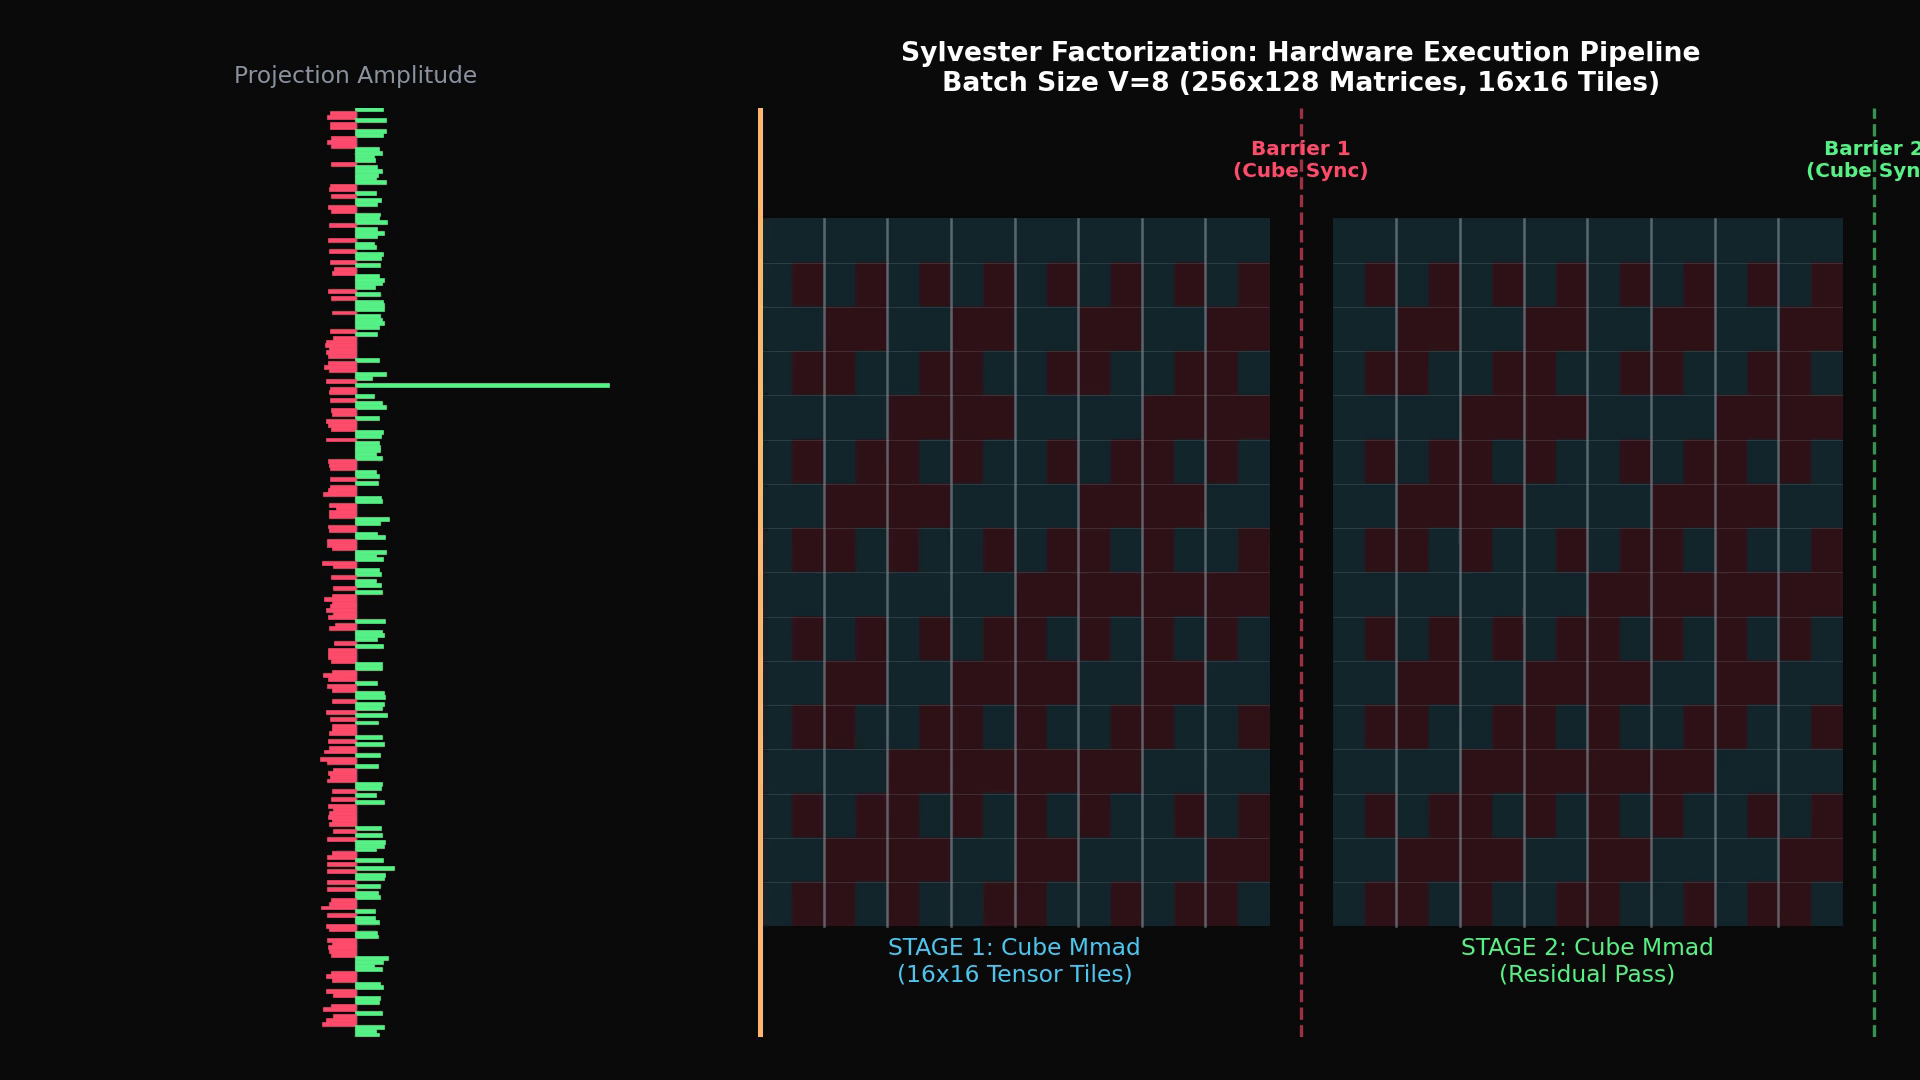
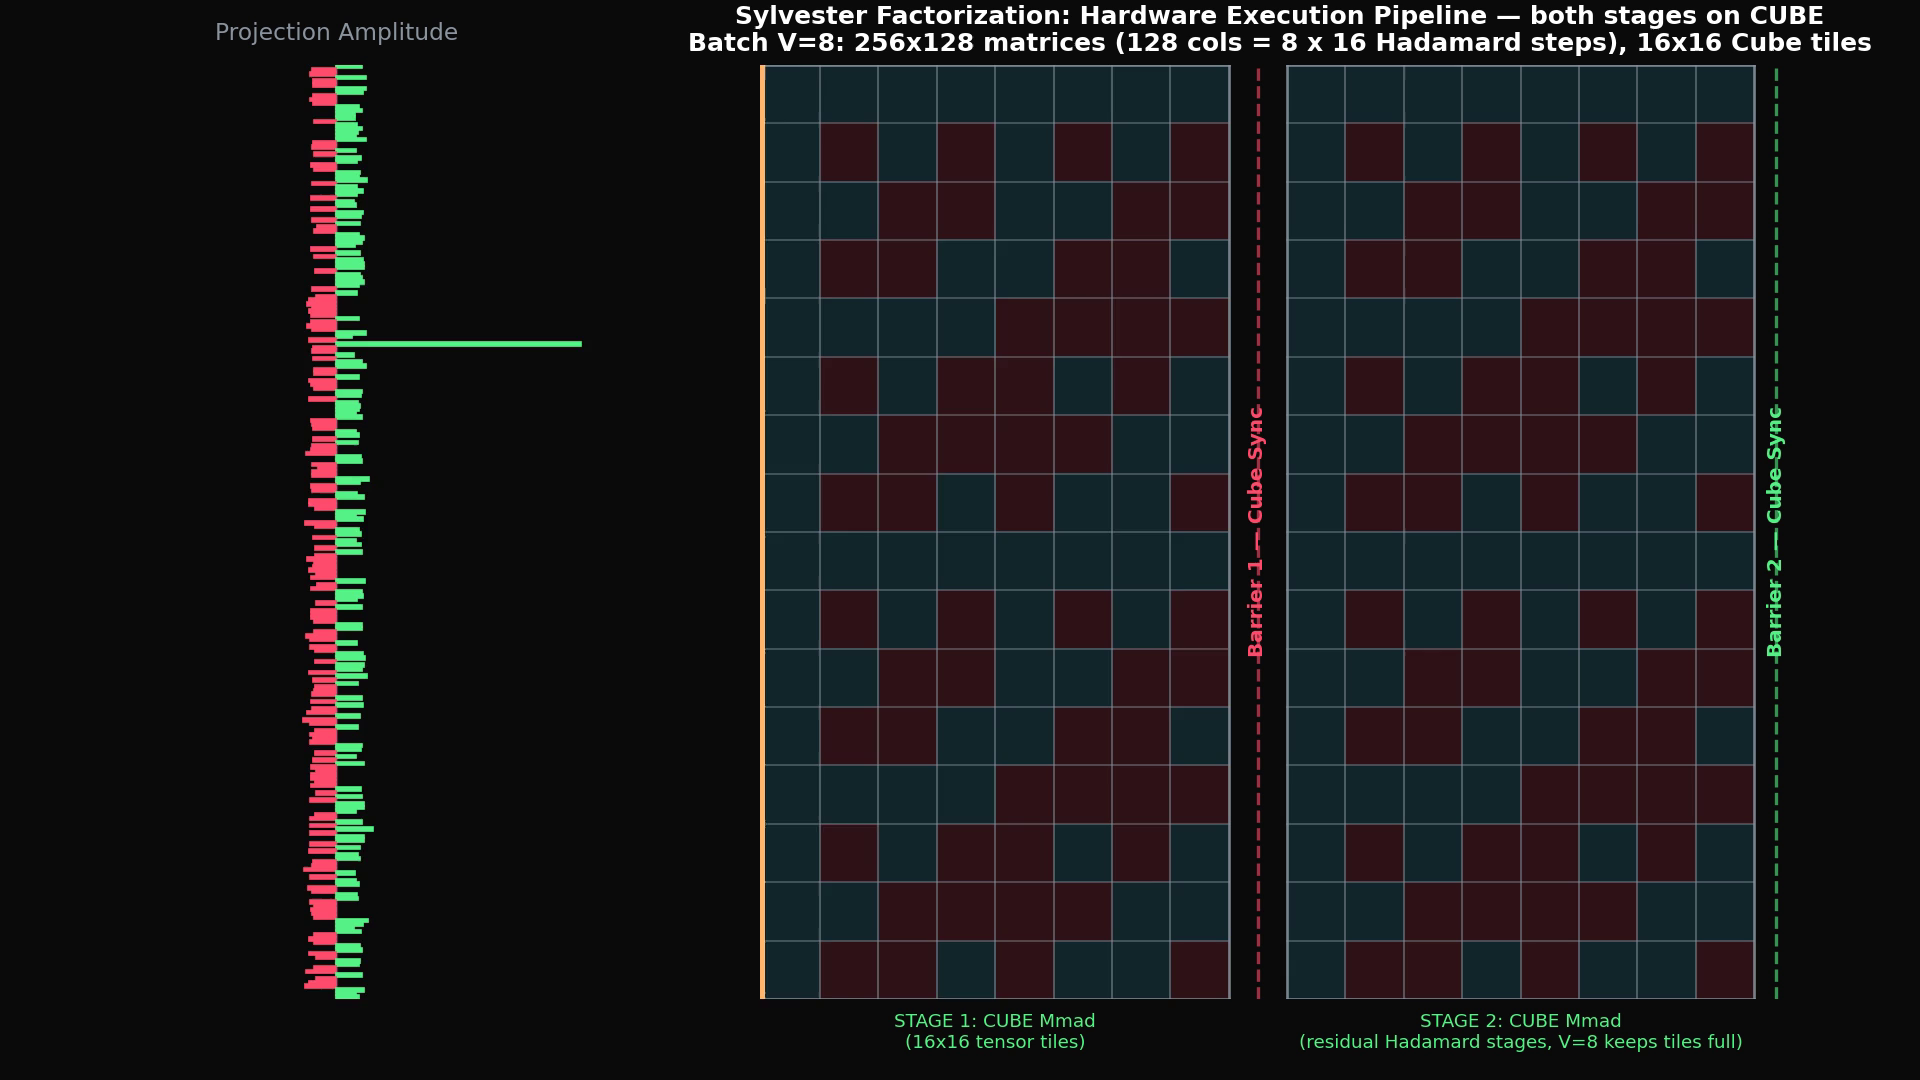
[update]

diff --git a/matrix_pipeline.py b/matrix_pipeline.py
@@ -10,20 +10,29 @@ import deck_style as ds
 # ==========================================
 D = 256
 BATCH = 8
-# Матрица: 256 строк, 128 столбцов (16 из матрицы Адамара * 8 батч)
+# Матрица: 256 строк, 128 столбцов (8 элементов батча * 16 шагов Адамара).
 ROWS = 256
-COLS = 128 
+COLS = 128
 TILE_H = 16
 TILE_W = 16
 TILES_R = ROWS // TILE_H # 16 тайлов по вертикали
 TILES_C = COLS // TILE_W # 8 тайлов по горизонтали
 TOTAL_TILES = TILES_R * TILES_C # 128 тайлов на каждую стадию
 
+# Геометрия дорожек по оси X (в клетках матрицы).
+M1_X0, M1_X1 = 0, COLS                  # первая матрица
+GAP = 16                                # зазор между матрицами
+M2_X0, M2_X1 = M1_X1 + GAP, M1_X1 + GAP + COLS
+BARRIER_1_X = M1_X1 + GAP / 2           # ровно посередине зазора
+BARRIER_2_X = M2_X1 + 6                 # сразу за второй матрицей
+
 FPS = 25
-FRAMES_STAGE1 = 60
-FRAMES_PAUSE1 = 20
-FRAMES_STAGE2 = 60
-FRAMES_PAUSE2 = 20
+# Обе стадии -- это вспышки Cube Mmad, а не медленный векторный проход:
+# на просчёт даём вдвое меньше кадров, чем раньше (60 -> 28).
+FRAMES_STAGE1 = 28
+FRAMES_PAUSE1 = 12
+FRAMES_STAGE2 = 28
+FRAMES_PAUSE2 = 16
 TOTAL_FRAMES = FRAMES_STAGE1 + FRAMES_PAUSE1 + FRAMES_STAGE2 + FRAMES_PAUSE2
 
 np.random.seed(42)
@@ -35,29 +44,47 @@ mid_v = initial_v * 0.4 + np.random.normal(0, 1.5, D)
 final_v = np.random.normal(0, 1.0, D)
 V_MAX = np.max(np.abs(initial_v)) * 1.1
 
-# Цвета в формате RGBA
-C_CYAN = np.array([76, 201, 240, 255]) / 255.0
-C_PINK = np.array([255, 77, 109, 255]) / 255.0
-C_BG = np.array([10, 10, 10, 255]) / 255.0
+# Цвета
+C_CYAN = np.array([76, 201, 240]) / 255.0       # текстура знаков +1
+C_PINK = np.array([255, 77, 109]) / 255.0       # текстура знаков -1
+C_CUBE = np.array([87, 242, 135]) / 255.0       # вспышка Cube Mmad (обе стадии)
+CUBE_GREEN = '#57f287'
 
-# Генерация базового паттерна
+BASE_ALPHA = 0.15       # непосчитанный тайл
+DONE_HEAT = 0.35        # посчитанный тайл не гаснет полностью
+HEAT_DECAY = 0.72       # короткая, резкая вспышка
+
+# Генерация базового паттерна знаков
 H_2 = np.array([[1, 1], [1, -1]])
 H_4 = np.kron(H_2, H_2)
 H_16 = np.kron(H_4, H_4)
-pattern = np.kron(H_16, np.ones((16, 8))) # Растягиваем до 256x128
+# По одному знаку на compute-тайл: текстура ложится ровно на сетку 16x16,
+# иначе половинки 16x8 читаются как вдвое более узкие столбцы.
+pattern = np.kron(H_16[:, :TILES_C], np.ones((TILE_H, TILE_W)))  # 256x128
+
+base_rgb = np.where(pattern[..., None] > 0, C_CYAN, C_PINK)
+
+# heat: 0 -- тайл не тронут, 1 -- только что посчитан на Cube.
+heat_1 = np.zeros((ROWS, COLS))
+heat_2 = np.zeros((ROWS, COLS))
+floor_1 = np.zeros((ROWS, COLS))
+floor_2 = np.zeros((ROWS, COLS))
 
 img1_data = np.zeros((ROWS, COLS, 4))
 img2_data = np.zeros((ROWS, COLS, 4))
 
-for r in range(ROWS):
-    for c in range(COLS):
-        color = C_CYAN if pattern[r, c] > 0 else C_PINK
-        img1_data[r, c] = color
-        img1_data[r, c, 3] = 0.15 # Базовая прозрачность
-        img2_data[r, c] = color
-        img2_data[r, c, 3] = 0.15
 
-# Списки невычисленных тайлов для обеих стадий (Cube Path)
+def compose(img, heat):
+    """Тайл тем зеленее и непрозрачнее, чем свежее его посчитал Cube."""
+    h = heat[..., None]
+    img[..., :3] = base_rgb * (1.0 - h) + C_CUBE * h
+    img[..., 3] = BASE_ALPHA + (1.0 - BASE_ALPHA) * heat
+
+
+compose(img1_data, heat_1)
+compose(img2_data, heat_2)
+
+# Списки непосчитанных тайлов для обеих стадий (обе -- Cube Path)
 unvisited_1 = list(itertools.product(range(TILES_R), range(TILES_C)))
 np.random.shuffle(unvisited_1)
 visited_1 = 0
@@ -72,108 +99,125 @@ visited_2 = 0
 plt.style.use('dark_background')
 # Строгий формат 16:9, чтобы видео закрывало слайд 10 x 5.625in целиком.
 fig, (ax_hist, ax_net) = plt.subplots(
-    1, 2, figsize=ds.FIGSIZE_16_9, dpi=ds.DPI_16_9, 
-    gridspec_kw={'width_ratios': [1.2, 2.5], 'wspace': 0.1}
+    1, 2, figsize=ds.FIGSIZE_16_9, dpi=ds.DPI_16_9,
+    gridspec_kw={'width_ratios': [1.3, 3.0], 'wspace': 0.06}
 )
-fig.subplots_adjust(left=0.04, right=0.98, bottom=0.04, top=0.90)
+# Вертикаль отдана матрицам: чем выше бокс, тем крупнее тайл 16x16.
+fig.subplots_adjust(left=0.035, right=0.99, bottom=0.075, top=0.94)
 # Ровный чёрный фон слайда: кадр во весь экран сливается с подложкой.
 ds.apply_figure_background(fig)
 ds.clear_axes_background(ax_hist, ax_net)
 ax_hist.axis('off')
 ax_net.axis('off')
 
+# Обе оси идут в клетках матрицы и делят одну шкалу строк.
+Y_TOP, Y_BOTTOM = -0.5, ROWS - 0.5
+
 # --- Гистограмма ---
-ax_hist.set_ylim(D - 0.5, -0.5)
+ax_hist.set_ylim(Y_BOTTOM, Y_TOP)
 ax_hist.set_xlim(-V_MAX, V_MAX)
 ax_hist.axvline(0, color='#30363d', lw=2, zorder=1)
-bar_rects = ax_hist.barh(range(D), initial_v, height=0.8, color='#57f287')
+bar_rects = ax_hist.barh(range(D), initial_v, height=1.0, color=CUBE_GREEN)
 ax_hist.set_title("Projection Amplitude", color='#8b949e', fontsize=14, pad=15)
 
 # --- Матрицы и пайплайн ---
-# Переводим шкалу X в абсолютные координаты:
-# Матрица 1: 0 - 128
-# Пробел: 128 - 144 (ширина 16)
-# Матрица 2: 144 - 272
-ax_net.set_xlim(-10, 282)
-ax_net.set_ylim(ROWS + 40, -40) # Запас сверху и снизу для надписей
-ax_net.set_title(f"Sylvester Factorization: Hardware Execution Pipeline\nBatch Size V={BATCH} (256x128 Matrices, 16x16 Tiles)", 
-                 color='white', fontsize=16, fontweight='bold', pad=10)
+ax_net.set_xlim(-6, BARRIER_2_X + 12)
+ax_net.set_ylim(Y_BOTTOM, Y_TOP)
+# Клетка строго квадратная: 256 строк против 128 столбцов читаются как 2:1,
+# а тайл 16x16 остаётся тайлом, а не приплюснутым прямоугольником.
+ax_net.set_aspect('equal', adjustable='box')
+ax_net.set_title(
+    "Sylvester Factorization: Hardware Execution Pipeline — both stages on CUBE\n"
+    f"Batch V={BATCH}: 256x128 matrices (128 cols = {BATCH} x 16 Hadamard steps), 16x16 Cube tiles",
+    color='white', fontsize=15, fontweight='bold', pad=8)
 
-im1 = ax_net.imshow(img1_data, extent=[0, 128, ROWS, 0], aspect='auto', zorder=2)
-im2 = ax_net.imshow(img2_data, extent=[144, 272, ROWS, 0], aspect='auto', zorder=2)
+im1 = ax_net.imshow(img1_data, extent=[M1_X0, M1_X1, Y_BOTTOM, Y_TOP],
+                    interpolation='nearest', zorder=2)
+im2 = ax_net.imshow(img2_data, extent=[M2_X0, M2_X1, Y_BOTTOM, Y_TOP],
+                    interpolation='nearest', zorder=2)
 
-# Отрисовка разметки батчей (каждые 16 столбцов)
-for c in range(16, 128, 16):
-    ax_net.plot([c, c], [0, ROWS], color='#8b949e', lw=1.5, zorder=3, alpha=0.6)
-    ax_net.plot([144+c, 144+c], [0, ROWS], color='#8b949e', lw=1.5, zorder=3, alpha=0.6)
+# Разметка: жирные границы тайлов 16x16 -- они же границы элементов батча.
+for x0 in (M1_X0, M2_X0):
+    for c in range(0, COLS + 1, TILE_W):
+        edge = c in (0, COLS)
+        ax_net.plot([x0 + c, x0 + c], [Y_TOP, Y_BOTTOM], color='#8b949e',
+                    lw=1.6 if edge else 1.1, alpha=0.85 if edge else 0.55, zorder=4)
+    for r in range(0, ROWS + 1, TILE_H):
+        edge = r in (0, ROWS)
+        ax_net.plot([x0, x0 + COLS], [r + Y_TOP, r + Y_TOP], color='#8b949e',
+                    lw=1.6 if edge else 1.1, alpha=0.85 if edge else 0.45, zorder=4)
 
-# Отрисовка горизонтальных линий тайлов (каждые 16 строк)
-for r in range(16, ROWS, 16):
-    ax_net.plot([0, 128], [r, r], color='#8b949e', lw=0.5, zorder=3, alpha=0.25)
-    ax_net.plot([144, 272], [r, r], color='#8b949e', lw=0.5, zorder=3, alpha=0.25)
+# Каретка и барьеры. Подписи: x в клетках, y в долях оси -- их не режет ylim.
+label_tr = ax_net.get_xaxis_transform()
+playhead = ax_net.axvline(M1_X0, color='#ffb86c', lw=3, zorder=10)
 
-# Каретка и Барьеры
-playhead = ax_net.axvline(0, color='#ffb86c', lw=3, zorder=10)
+# Подписи идут вдоль самих линий барьеров -- над матрицей их съедает заголовок.
+for bx, bcolor, blabel in ((BARRIER_1_X, '#ff4d6d', "Barrier 1 — Cube Sync"),
+                           (BARRIER_2_X, CUBE_GREEN, "Barrier 2 — Cube Sync")):
+    ax_net.axvline(bx, color=bcolor, lw=2, linestyle='--', alpha=0.6, zorder=5)
+    ax_net.text(bx, 0.5, blabel, transform=label_tr, color=bcolor, rotation=90,
+                ha='center', va='center', fontsize=12, fontweight='bold')
 
-# Барьер 1 (ровно посередине между матрицами)
-ax_net.axvline(136, color='#ff4d6d', lw=2, linestyle='--', alpha=0.6, zorder=5)
-ax_net.text(136, -15, "Barrier 1\n(Cube Sync)", color='#ff4d6d', ha='center', fontsize=12, fontweight='bold')
-
-# Барьер 2 (в самом конце)
-ax_net.axvline(280, color='#57f287', lw=2, linestyle='--', alpha=0.6, zorder=5)
-ax_net.text(280, -15, "Barrier 2\n(Cube Sync)", color='#57f287', ha='center', fontsize=12, fontweight='bold')
-
-# Подписи стадий
-ax_net.text(64, ROWS + 20, "STAGE 1: Cube Mmad\n(16x16 Tensor Tiles)", color='#4cc9f0', ha='center', fontsize=14)
-ax_net.text(208, ROWS + 20, "STAGE 2: Cube Mmad\n(Residual Pass)", color='#57f287', ha='center', fontsize=14)
+# Обе стадии считает Cube, поэтому подписи одного цвета и одного типа.
+ax_net.text((M1_X0 + M1_X1) / 2, -0.015, "STAGE 1: CUBE Mmad\n(16x16 tensor tiles)",
+            transform=label_tr, color=CUBE_GREEN, ha='center', va='top', fontsize=11)
+ax_net.text((M2_X0 + M2_X1) / 2, -0.015,
+            f"STAGE 2: CUBE Mmad\n(residual Hadamard stages, V={BATCH} keeps tiles full)",
+            transform=label_tr, color=CUBE_GREEN, ha='center', va='top', fontsize=11)
 
 def update(frame):
     global visited_1, visited_2
-    
+
     # 1. Расчет позиции каретки в Data Coordinates
     if frame <= FRAMES_STAGE1:
-        x = (frame / FRAMES_STAGE1) * 128.0
+        x = M1_X0 + (frame / FRAMES_STAGE1) * COLS
     elif frame <= FRAMES_STAGE1 + FRAMES_PAUSE1:
-        x = 136.0 # Стоит на барьере 1
+        x = BARRIER_1_X # Стоит на барьере 1
     elif frame <= FRAMES_STAGE1 + FRAMES_PAUSE1 + FRAMES_STAGE2:
         local_f = frame - (FRAMES_STAGE1 + FRAMES_PAUSE1)
-        x = 144.0 + (local_f / FRAMES_STAGE2) * 128.0
+        x = M2_X0 + (local_f / FRAMES_STAGE2) * COLS
     else:
-        x = 280.0 # Стоит на барьере 2
-        
+        x = BARRIER_2_X # Стоит на барьере 2
+
     playhead.set_xdata([x, x])
-    
-    # 2. Обновление Матрицы 1 (Cube Stage 1)
-    img1_data[..., 3] = np.clip(img1_data[..., 3] * 0.85, 0.15, 1.0)
-    if x <= 128.0:
-        target_visits = int((x / 128.0) * TOTAL_TILES)
+
+    # 2. Стадия 1: Cube Mmad
+    heat_1[:] = np.maximum(heat_1 * HEAT_DECAY, floor_1)
+    if x <= M1_X1:
+        target_visits = int(((x - M1_X0) / COLS) * TOTAL_TILES)
         while visited_1 < target_visits and unvisited_1:
             r, c = unvisited_1.pop()
-            img1_data[r*TILE_H:(r+1)*TILE_H, c*TILE_W:(c+1)*TILE_W, 3] = 1.0
+            sl = (slice(r*TILE_H, (r+1)*TILE_H), slice(c*TILE_W, (c+1)*TILE_W))
+            heat_1[sl] = 1.0
+            floor_1[sl] = DONE_HEAT     # посчитанный тайл остаётся подсвеченным
             visited_1 += 1
+    compose(img1_data, heat_1)
     im1.set_data(img1_data)
-    
-    # 3. Обновление Матрицы 2 (Cube Stage 2)
-    img2_data[..., 3] = np.clip(img2_data[..., 3] * 0.85, 0.15, 1.0)
-    if 144.0 <= x <= 272.0:
-        target_visits = int(((x - 144.0) / 128.0) * TOTAL_TILES)
+
+    # 3. Стадия 2: тот же Cube Mmad, те же вспышки
+    heat_2[:] = np.maximum(heat_2 * HEAT_DECAY, floor_2)
+    if M2_X0 <= x <= M2_X1:
+        target_visits = int(((x - M2_X0) / COLS) * TOTAL_TILES)
         while visited_2 < target_visits and unvisited_2:
             r, c = unvisited_2.pop()
-            img2_data[r*TILE_H:(r+1)*TILE_H, c*TILE_W:(c+1)*TILE_W, 3] = 1.0
+            sl = (slice(r*TILE_H, (r+1)*TILE_H), slice(c*TILE_W, (c+1)*TILE_W))
+            heat_2[sl] = 1.0
+            floor_2[sl] = DONE_HEAT
             visited_2 += 1
+    compose(img2_data, heat_2)
     im2.set_data(img2_data)
 
     # 4. Обновление Гистограммы
-    if x <= 136.0:
-        p = min(x / 128.0, 1.0)
+    if x <= BARRIER_1_X:
+        p = min((x - M1_X0) / COLS, 1.0)
         curr_v = initial_v * (1 - p) + mid_v * p
     else:
-        p = min((x - 144.0) / 128.0, 1.0)
+        p = min(max((x - M2_X0) / COLS, 0.0), 1.0)
         curr_v = mid_v * (1 - p) + final_v * p
 
     for bar, val in zip(bar_rects, curr_v):
         bar.set_width(val)
-        bar.set_color('#57f287' if val >= 0 else '#ff4d6d')
+        bar.set_color(CUBE_GREEN if val >= 0 else '#ff4d6d')
 
     return im1, im2, playhead, *bar_rects
 
